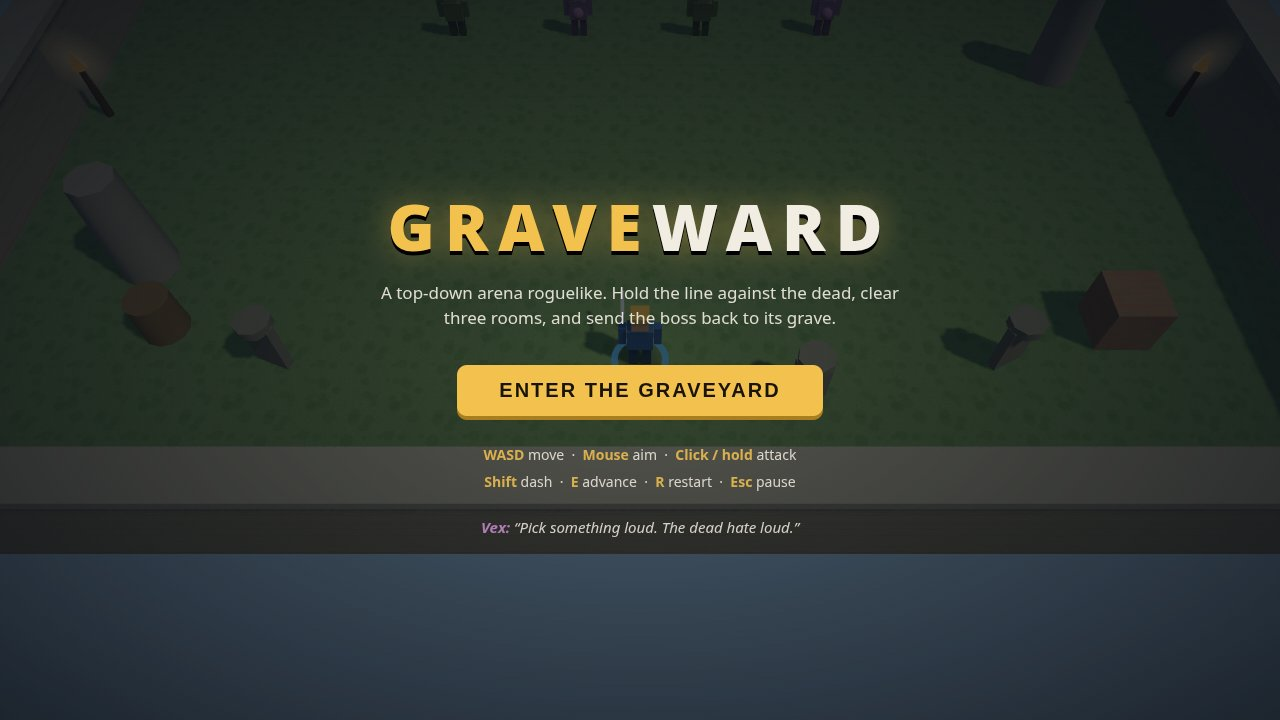
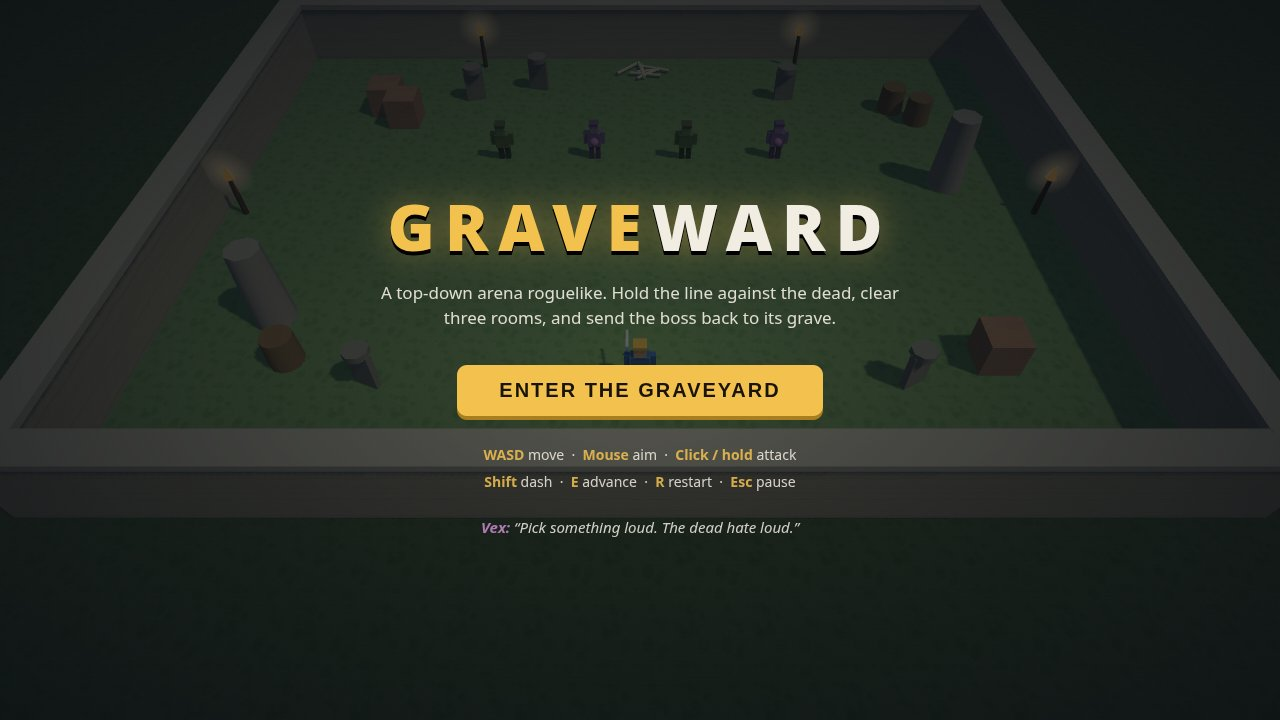
Fix camera framing, soften hit-flash, hide player on victory screen
- Camera: FOV 46->52, height 17.5->19, south offset 10.5->14, lookAt
  2.5 north of player, so the whole arena depth (north wall included)
  fits the frame at spawn and enemies stop popping in from the top edge
- Ground: 240m outer skirt of the same floor texture, darkened, so the
  frame past the walls is never sky-blue void (bottom ~25% at south edge)
- Hit-flash: warm tint 0xffe2b0 at 0.45 intensity for 70ms instead of
  solid white 0.9/90ms (Lich read as a white blob in stills)
- Victory: hide player mesh + blob while the semi-transparent overlay
  is up (it stood behind the 'Rooms cleared' row); restored on
  startRun / backToTitle
- Regenerated all 4 screenshots with the fixed framing; tests 82/82

diff --git a/game/src/main.js b/game/src/main.js
@@ -135,8 +135,14 @@ function boot() {
   scene.background = new THREE.Color(PALETTE.sky);
   scene.fog = new THREE.Fog(PALETTE.fog, 45, 90);
 
-  camera = new THREE.PerspectiveCamera(46, window.innerWidth / window.innerHeight, 0.1, 200);
-  camera.position.set(0, 17.5, 14);
+  // Follow camera: high and far enough that the whole arena depth fits the
+  // frame at spawn (north wall visible, no enemy "pop-in" from the top
+  // edge). FOV 52 + height 19 + 14 south offset + lookAt 2.5 north of the
+  // player: top ray ~23 deg below horizontal, ground reach ~19/tan(23deg)
+  // ~ 45 m north of the camera. The outer ground skirt in world.js covers
+  // everything past the walls, so the bottom of the frame is never sky.
+  camera = new THREE.PerspectiveCamera(52, window.innerWidth / window.innerHeight, 0.1, 200);
+  camera.position.set(0, 19, 24);
   camera.lookAt(0, 0, 0);
 
   const hemi = new THREE.HemisphereLight(PALETTE.hemiSky, PALETTE.hemiGround, PALETTE.hemiIntensity);
@@ -272,6 +278,8 @@ function wireMenus() {
 function backToTitle() {
   clearField();
   hideBossBar();
+  if (playerMesh) playerMesh.visible = true;
+  if (playerBlob) playerBlob.visible = true;
   showScreen('title');
   screen = 'title';
 }
@@ -369,6 +377,8 @@ function startRun() {
   player.dashCharges = 1;
   equipWeapon(chosen.weapon);
   syncPlayerMesh();
+  if (playerMesh) playerMesh.visible = true;
+  if (playerBlob) playerBlob.visible = true;
   hideBossBar();
   screen = 'playing';
   paused = false;
@@ -617,6 +627,11 @@ function killBoss() {
   run.won = true;
   hideBossBar();
   sfx.victory();
+  // The victory overlay is semi-transparent, so hide the player mesh (and
+  // its blob) — it stood centre-frame behind the "Rooms cleared" stats row.
+  // Restored by startRun / backToTitle.
+  if (playerMesh) playerMesh.visible = false;
+  if (playerBlob) playerBlob.visible = false;
   if (run.difficulty === 'hard') setUnlock('graveward_hardClear');
   setUnlock('graveward_bossClear');
   screen = 'victory';
@@ -948,9 +963,9 @@ function updateCamera(dt) {
   const sx = shake > 0 ? (Math.random() - 0.5) * shake : 0;
   const sz = shake > 0 ? (Math.random() - 0.5) * shake : 0;
   camera.position.x += ((tx + sx) - camera.position.x) * Math.min(1, dt * 5);
-  camera.position.z += ((tz + 10.5 + sz) - camera.position.z) * Math.min(1, dt * 5);
-  camera.position.y = 17.5;
-  camera.lookAt(tx + sx, 0, tz - 1.5 + sz);
+  camera.position.z += ((tz + 14 + sz) - camera.position.z) * Math.min(1, dt * 5);
+  camera.position.y = 19;
+  camera.lookAt(tx + sx, 0, tz - 2.5 + sz);
 }
 
 // ------------------------------------------------------------ shot mode ---
@@ -1071,6 +1086,10 @@ function stageShot(kind) {
     rebuildArena('graveyard');
     player = createPlayer(0, 9);
     syncPlayerMesh();
+    // Hide the player mesh: the victory overlay is semi-transparent and
+    // the mesh would stand behind the stats row (see killBoss).
+    if (playerMesh) playerMesh.visible = false;
+    if (playerBlob) playerBlob.visible = false;
     for (let i = 0; i < 10; i++) {
       const a = (i / 10) * Math.PI * 2;
       dropCoin(Math.cos(a) * 3, 6 + Math.sin(a) * 2, 10);

diff --git a/game/src/effects.js b/game/src/effects.js
@@ -117,16 +117,18 @@ class NumberPool {
   }
 }
 
-// Flash an entity's materials white for a beat after a hit. The materials
-// are cloned at flash time so a shared material never flashes everywhere.
+// Flash an entity's materials for a beat after a hit: a warm tint at half
+// strength, not solid white — a full-white flash turned the Lich into a
+// white blob in still captures. The materials are cloned at flash time so
+// a shared material never flashes everywhere.
 export function flashMesh(group) {
   group.traverse((m) => {
     if (!m.isMesh || !m.material || !m.material.emissive) return;
     if (!m.userData.savedEmissive) m.userData.savedEmissive = m.material.emissive.getHex();
     m.material = m.material.clone();
-    m.material.emissive.setHex(0xffffff);
-    m.material.emissiveIntensity = 0.9;
-    m.userData.flashUntil = performance.now() + 90;
+    m.material.emissive.setHex(0xffe2b0);
+    m.material.emissiveIntensity = 0.45;
+    m.userData.flashUntil = performance.now() + 70;
   });
 }
 

diff --git a/game/src/world.js b/game/src/world.js
@@ -122,6 +122,19 @@ export function buildArena(scene, zoneId) {
   floor.receiveShadow = true;
   group.add(floor);
 
+  // Outer ground: a wide skirt of the same floor texture, darkened, so the
+  // frame never shows sky-blue void past the walls. The follow camera looks
+  // well beyond the arena when the player hugs the south wall, and without
+  // this the bottom of the frame is empty sky. Fog (45-90) fades the far
+  // edge out, so there is no hard rim.
+  const outerGeo = new THREE.PlaneGeometry(240, 240);
+  scaleUVs(outerGeo, 120, 120);
+  const outer = new THREE.Mesh(outerGeo, textured(0x8f8f8f, floorMap));
+  outer.rotation.x = -Math.PI / 2;
+  outer.position.y = -0.05;
+  outer.receiveShadow = true;
+  group.add(outer);
+
   // Perimeter walls.
   const wallMap = tex ? new THREE.CanvasTexture(tex[zone.wall]) : null;
   if (wallMap) {
